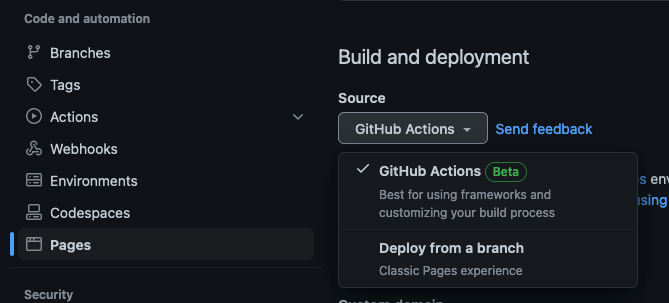
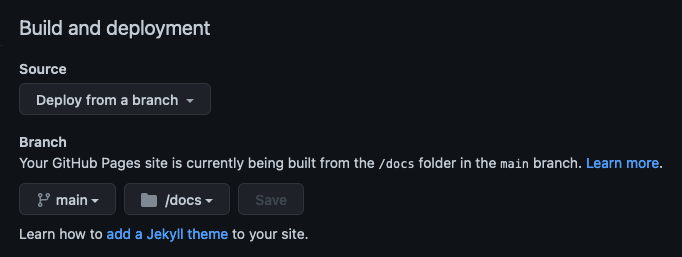
Updated readme

diff --git a/README.md b/README.md
@@ -48,7 +48,7 @@ You can always take a look to the [actual workflow](.github/workflows/staticpub.
 
 Two things to keep in mind: 
 
-1. In `Settings > Pages > Build and deployment`, you'll have to choose `Github Actions`.
+1. In `Settings > Pages > Build and deployment`, you'll have to choose `Deploy from a branch`, select the branch you like (ie: `main`) and the `/docs` directory.
 
 ![](readme_images/gh-actions.png)
 
